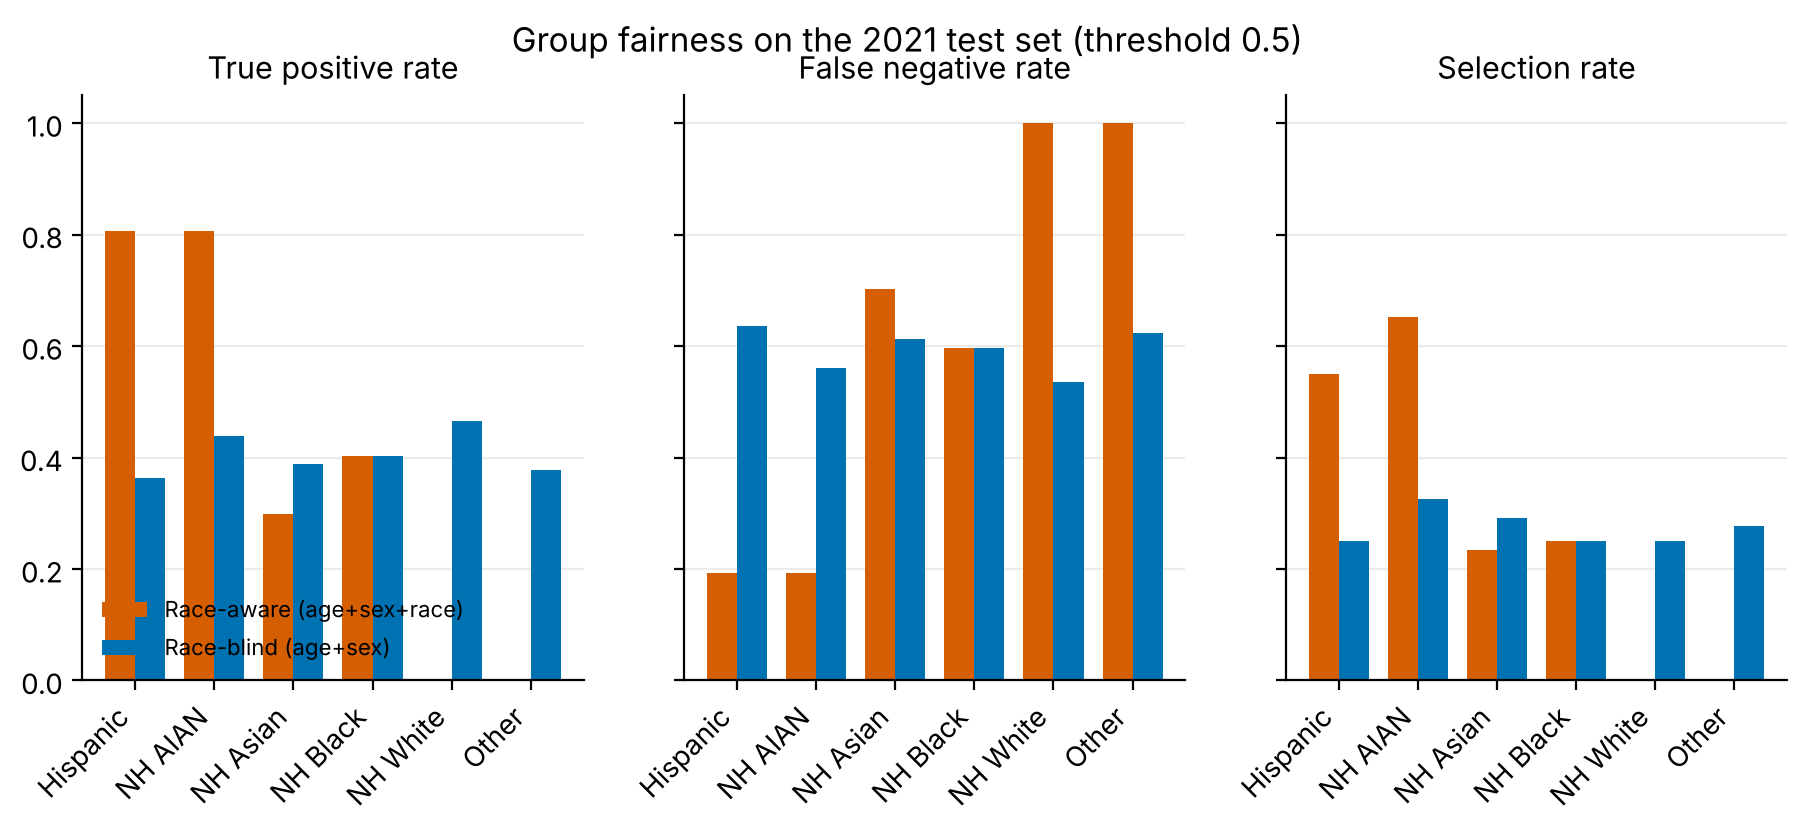
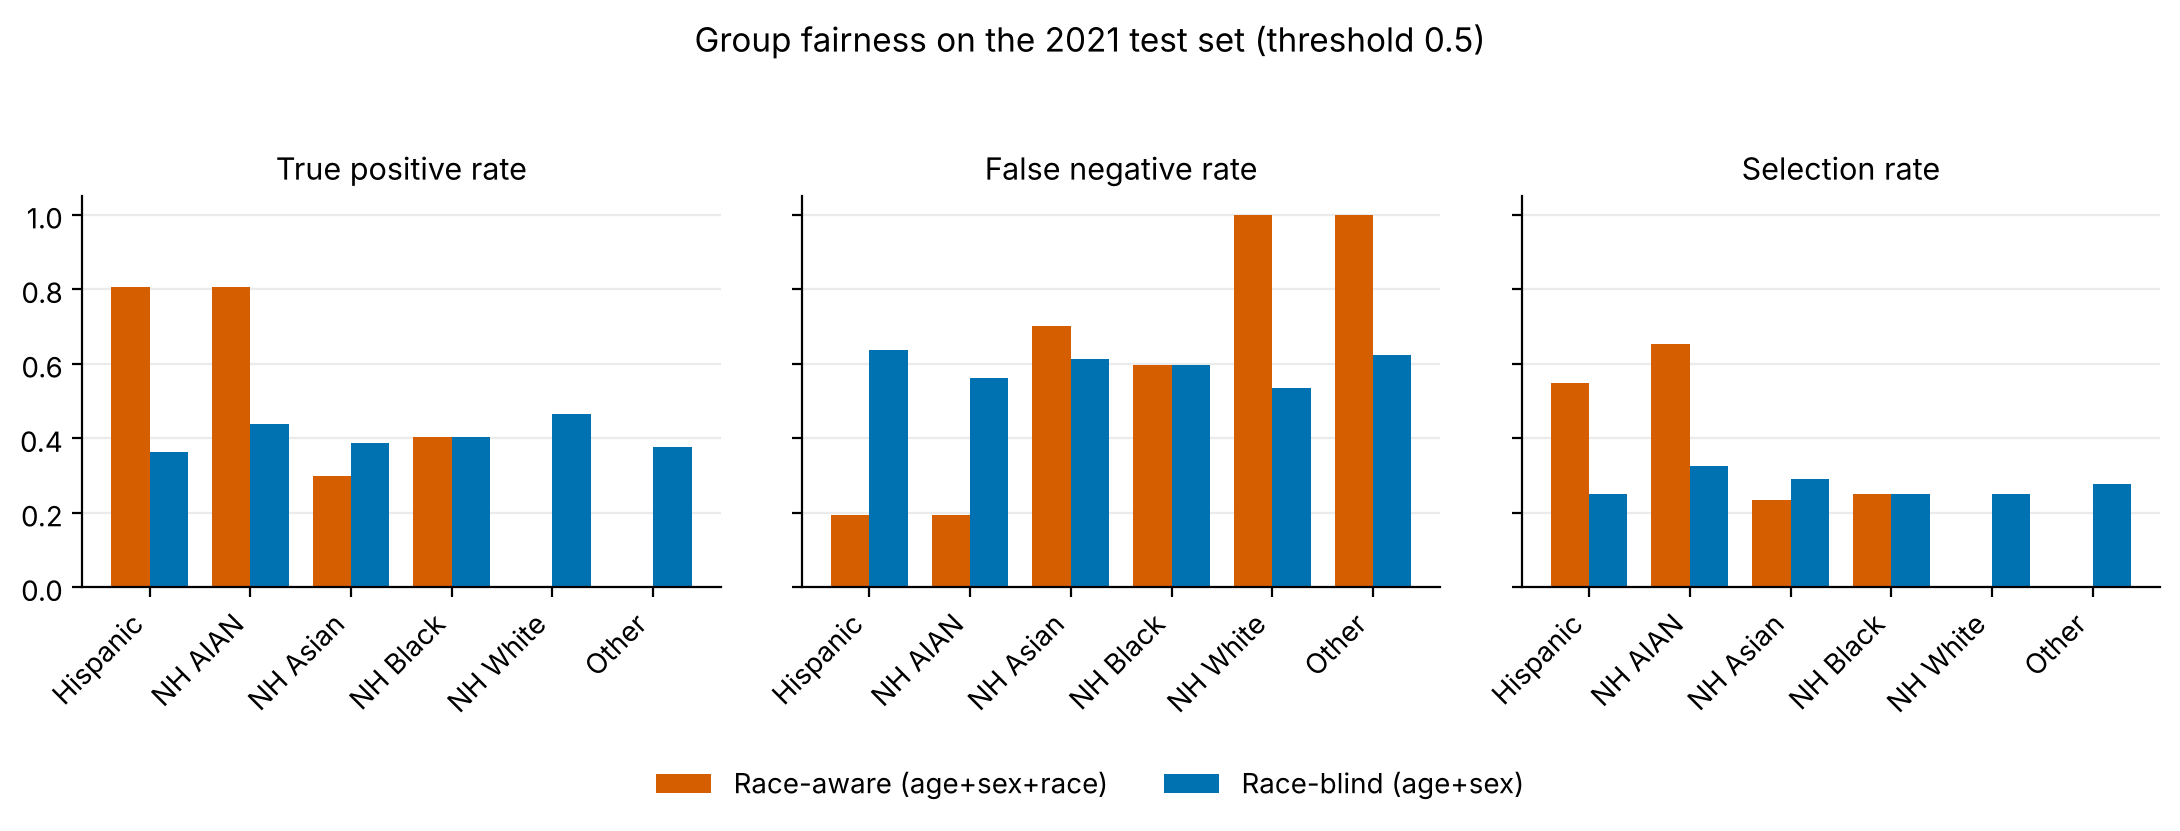
style(plots): use plain log-axis ticks and a shared fairness legend
Replace scientific-notation tick labels on log-scale axes with plain
values, and move the fairness chart legend below the panels so it no
longer overlaps the bars. Tables and metrics are unchanged.

Claude-Session: https://claude.ai/code/session_01H6ZJaDNFYzjmQK9qVGe6bm

diff --git a/src/covid_bias/plotting.py b/src/covid_bias/plotting.py
@@ -48,6 +48,18 @@ def new_figure(width: float = 7.0, height: float = 4.5, **kwargs):
     return plt.subplots(figsize=(width, height), **kwargs)
 
 
+def plain_log_axis(ax, axis: str = "x", ticks=(0.2, 0.3, 0.5, 1, 2, 3, 5, 10)) -> None:
+    """Log-scale axis with plain decimal tick labels and no minor labels."""
+    from matplotlib.ticker import FixedLocator, FuncFormatter, NullFormatter
+
+    target = ax.xaxis if axis == "x" else ax.yaxis
+    lo, hi = ax.get_xlim() if axis == "x" else ax.get_ylim()
+    shown = [t for t in ticks if lo <= t <= hi] or list(ticks)
+    target.set_major_locator(FixedLocator(shown))
+    target.set_major_formatter(FuncFormatter(lambda v, _: f"{v:g}"))
+    target.set_minor_formatter(NullFormatter())
+
+
 def save(fig, path: Path) -> Path:
     """Save a figure (creating parents) and close it."""
     path.parent.mkdir(parents=True, exist_ok=True)

diff --git a/src/covid_bias/analysis/county.py b/src/covid_bias/analysis/county.py
@@ -27,7 +27,7 @@ from covid_bias.evaluation.validation import (
     permutation_importance_cv,
     summarise_scores,
 )
-from covid_bias.plotting import PALETTE, new_figure, save
+from covid_bias.plotting import PALETTE, new_figure, plain_log_axis, save
 
 log = logging.getLogger(__name__)
 
@@ -115,6 +115,7 @@ def _plot_ratios(table: pd.DataFrame, path: Path) -> None:
         )
     ax.axvline(1, color=PALETTE["grey"], ls="--", lw=1)
     ax.set_xscale("log")
+    plain_log_axis(ax)
     ax.set_yticks(np.arange(len(races))[::-1], races)
     ax.set_xlabel("Share of deaths / share of population (log scale; death-weighted mean, 95% CI)")
     ax.set_title("County disparity ratios by race (only counties with unsuppressed data)")

diff --git a/src/covid_bias/analysis/education.py b/src/covid_bias/analysis/education.py
@@ -27,7 +27,7 @@ from covid_bias.evaluation.validation import (
     permutation_importance_cv,
     summarise_scores,
 )
-from covid_bias.plotting import PALETTE, new_figure, save
+from covid_bias.plotting import PALETTE, new_figure, plain_log_axis, save
 
 log = logging.getLogger(__name__)
 
@@ -107,6 +107,7 @@ def _plot_forest(ors: pd.DataFrame, path: Path) -> None:
         ax.plot(row.odds_ratio, yi, "o", color=c)
     ax.axvline(1, color=PALETTE["grey"], ls="--", lw=1)
     ax.set_xscale("log")
+    plain_log_axis(ax)
     ax.set_yticks(y, [f"{r.level} ({r.factor})" for r in sub.itertuples()])
     ax.set_xlabel("Odds ratio of COVID-19 among all deaths (log scale, 95% CI)")
     ax.set_title(

diff --git a/src/covid_bias/analysis/risk.py b/src/covid_bias/analysis/risk.py
@@ -106,8 +106,10 @@ def _plot_fairness(table: pd.DataFrame, path: Path) -> None:
         ax.set_title(title)
         ax.set_ylim(0, 1.05)
         ax.grid(axis="x", visible=False)
-    axes[0].legend(loc="lower left", fontsize=8)
-    fig.suptitle("Group fairness on the 2021 test set (threshold 0.5)")
+    handles, labels = axes[0].get_legend_handles_labels()
+    fig.legend(handles, labels, loc="lower center", ncol=2, bbox_to_anchor=(0.5, -0.02))
+    fig.suptitle("Group fairness on the 2021 test set (threshold 0.5)", y=1.04)
+    fig.tight_layout(rect=(0, 0.08, 1, 1))
     save(fig, path)
 
 
